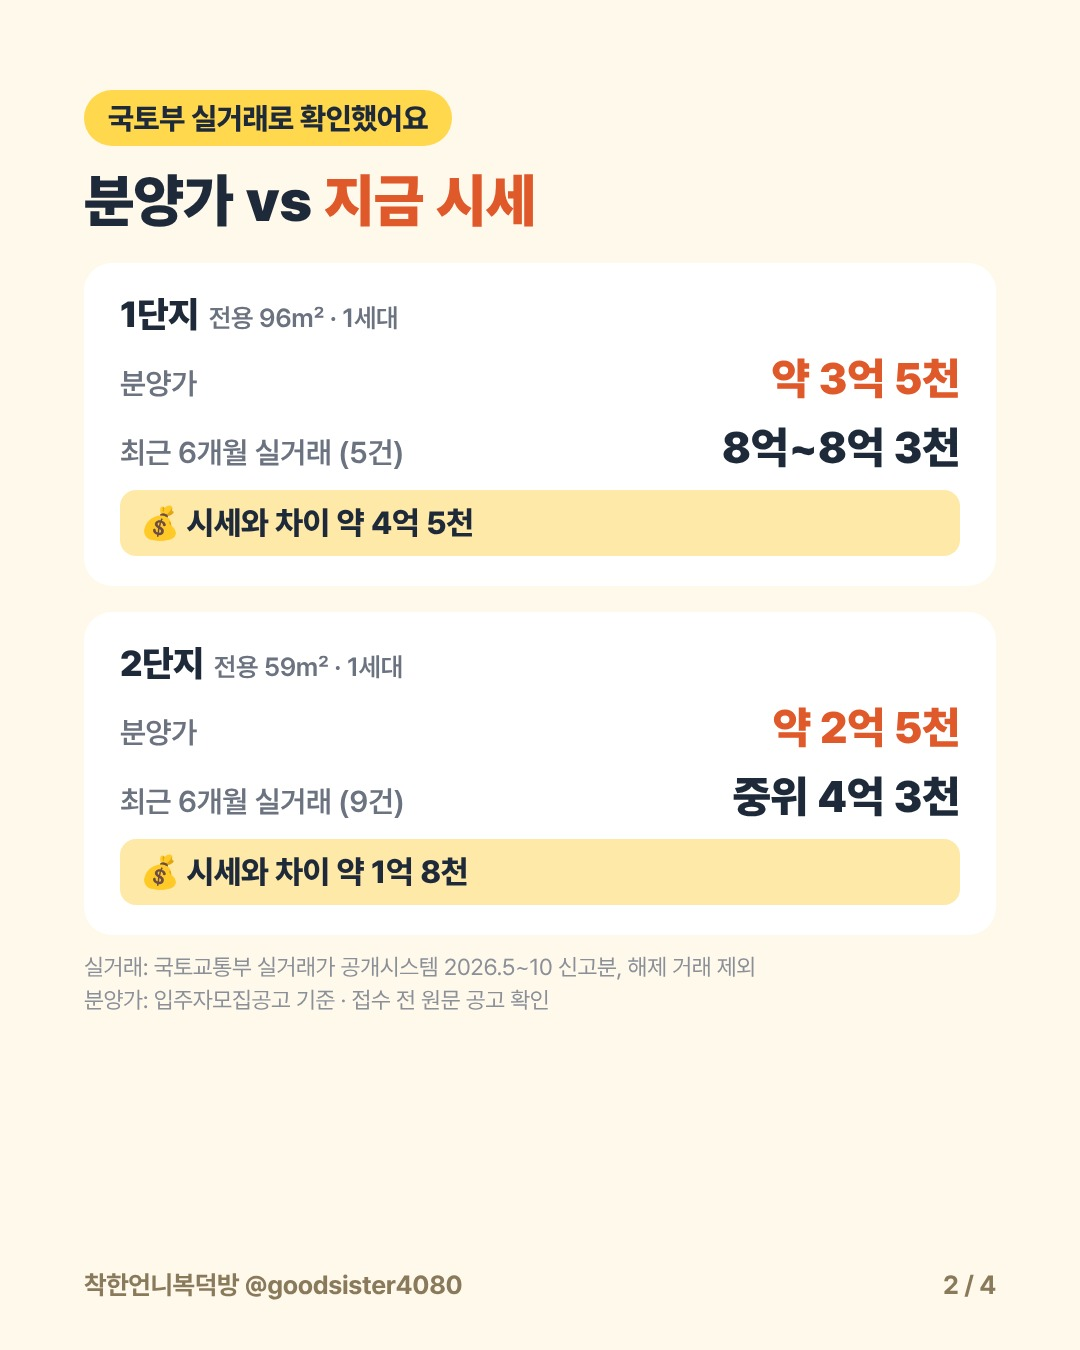
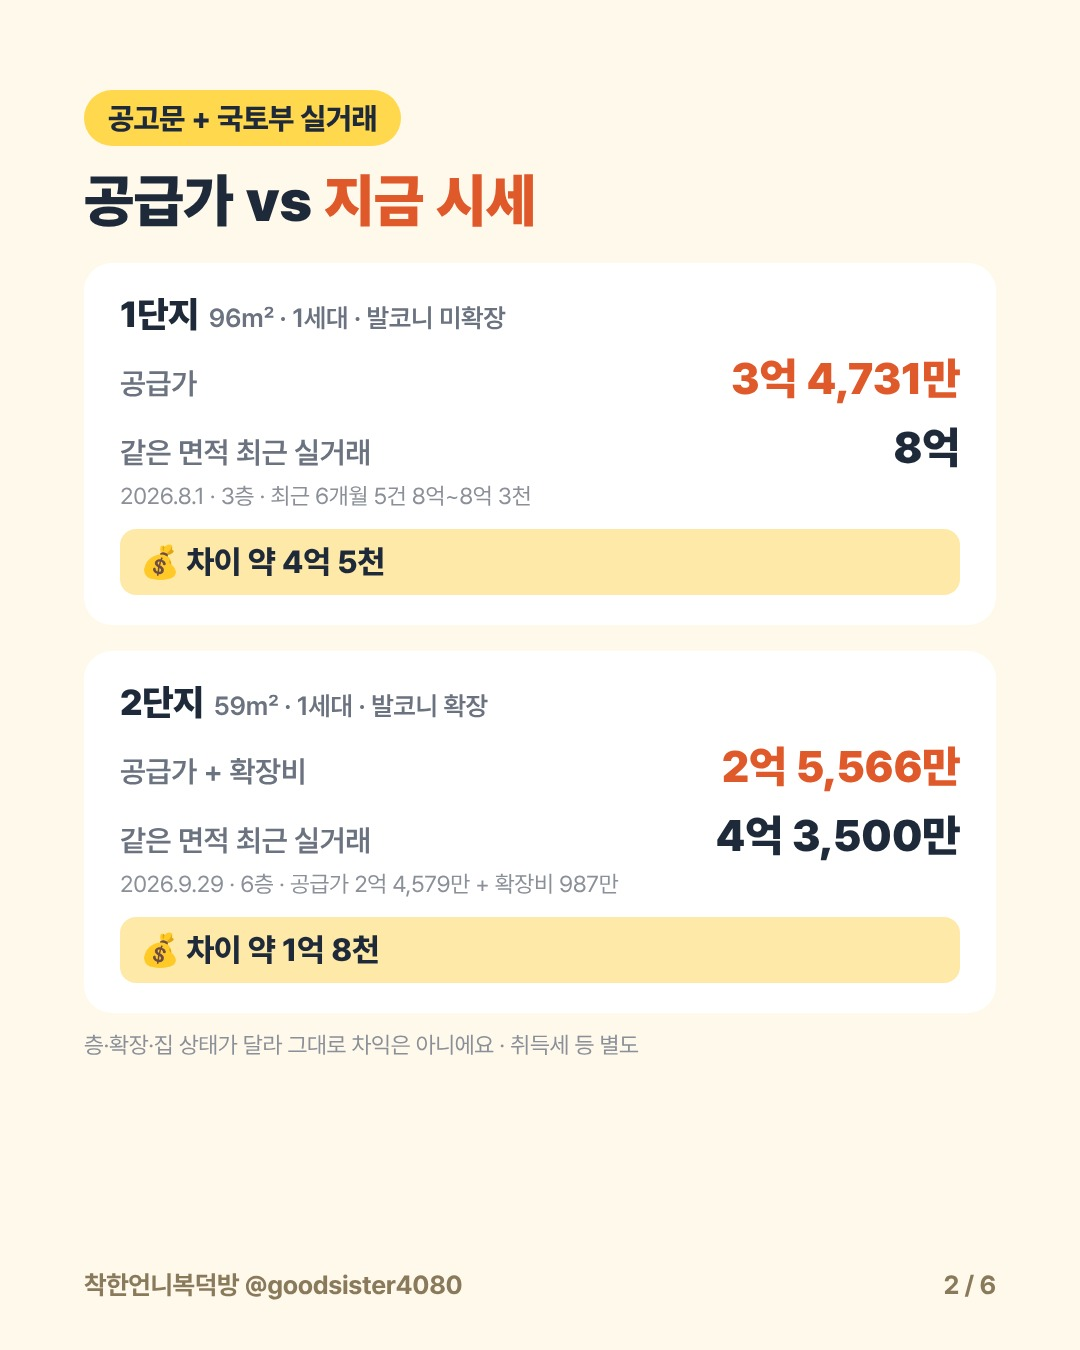
Rebuild Sejong card as 6-slide save/share post without DM reward
Claude-Session: https://claude.ai/code/session_01TVq9M4GpnT2XRseWGn9WC1

diff --git a/instagram/cards/kit.html b/instagram/cards/kit.html
@@ -10,45 +10,42 @@ pre{white-space:pre-wrap;word-break:keep-all;margin:0;padding:14px;font-family:i
 code{background:#FFD84D;padding:2px 8px;border-radius:6px}a.back{font-size:14px}
 </style></head><body><div class="w"><a class="back" href="../../">← 대시보드</a><h1>📤 카드뉴스 업로드 키트</h1>
 <p class="note">캡션·고정 댓글·DM 문구를 버튼 한 번으로 복사하세요.</p>
-<section><h2>🚨 11/3(화) · 세종 수루배마을 무순위</h2>
-<div class="th"><a href="2026-11-03-sejong/card-1103-1.png" download><img src="2026-11-03-sejong/card-1103-1.png"></a><a href="2026-11-03-sejong/card-1103-2.png" download><img src="2026-11-03-sejong/card-1103-2.png"></a><a href="2026-11-03-sejong/card-1103-3.png" download><img src="2026-11-03-sejong/card-1103-3.png"></a><a href="2026-11-03-sejong/card-1103-4.png" download><img src="2026-11-03-sejong/card-1103-4.png"></a></div><p class="note">이미지를 길게 누르거나(휴대폰) 클릭하면 저장돼요.</p>
-<div class="box"><div class="hd"><b>① 캡션</b><button onclick="cp(this)">복사</button></div><pre>세종 수루배마을,
+<section><h2>🚨 11/3(화) · 세종 수루배마을 무순위 (DM 없음)</h2><div class="th"><a href="2026-11-03-sejong/card-1103-1.png" download><img src="2026-11-03-sejong/card-1103-1.png"></a><a href="2026-11-03-sejong/card-1103-2.png" download><img src="2026-11-03-sejong/card-1103-2.png"></a><a href="2026-11-03-sejong/card-1103-3.png" download><img src="2026-11-03-sejong/card-1103-3.png"></a><a href="2026-11-03-sejong/card-1103-4.png" download><img src="2026-11-03-sejong/card-1103-4.png"></a><a href="2026-11-03-sejong/card-1103-5.png" download><img src="2026-11-03-sejong/card-1103-5.png"></a><a href="2026-11-03-sejong/card-1103-6.png" download><img src="2026-11-03-sejong/card-1103-6.png"></a></div><p class="note">저장·공유형이라 소셜비즈 설정이 없어요.</p><div class="box"><div class="hd"><b>① 캡션</b><button onclick="cp(this)">복사</button></div><pre>세종 수루배마을,
 10년 전 분양가로 무순위 2세대 🚨
 
-1단지 96㎡ 분양가 약 3억 5천
-최근 실거래 8억~8억 3천
+✔ 1단지 96㎡ · 미확장
+공급가 3억 4,731만
+같은 면적 최근 실거래 8억
 
-2단지 59㎡ 분양가 약 2억 5천
-최근 실거래 중위 4억 3천
+✔ 2단지 59㎡ · 확장
+공급가 2억 4,579만 (+확장비 987만)
+같은 면적 최근 실거래 4억 3,500만
 
-✔ 세종시 거주 + 무주택 세대구성원
-✔ 청약통장 가입 여부 무관
-✔ 접수 11/9(월) · 발표 11/12(목)
+📅 11/9(월) 하루 접수
+09:00~17:30
+발표 11/12 · 계약 11/19
+잔금 12/30 (중도금 없음)
 
-최초 모집공고가 2016년 10월이라
-그때 분양가로 다시 나왔어요.
+✔ 세종시 거주 + 세대 전원 무주택
+✔ 청약통장 필요 없음
+✔ 가점 없이 무작위 추첨
 
-📩 댓글에 &#x27;세종&#x27; 남기시면
-자격·자금 체크표와 공고 링크를
-DM으로 보내드려요.
-(팔로워분들께만 보내드려요)
+⚠ 잔금 90%를 40일 안에 내야 하고
+대출 알선이 없어요.
+청약 전에 은행 한도부터 확인하세요.
 
+📌 저장해 두고 11/9 아침에 다시 보세요.
 세종 사는 무주택 지인에게
 꼭 공유해 주세요 📤
 
-출처 | 입주자모집공고,
-국토부 실거래가 (2026.5~10 신고분)
+📞 상담은 프로필 링크 → 카톡 채널
+
+출처 | 입주자모집공고 (2026.11.3),
+국토부 실거래가
 ※ 청약 권유가 아니에요.
 접수 전 원문 공고를 꼭 확인하세요.
 
-#세종청약 #무순위청약 #수루배마을 #세종아파트 #줍줍 #반곡동 #내집마련 #착한언니복덕방</pre></div><div class="box"><div class="hd"><b>② 고정 댓글</b><button onclick="cp(this)">복사</button></div><pre>👇 &#x27;세종&#x27; 댓글 남겨주세요! 순서대로 DM 드려요</pre></div><div class="box"><div class="hd"><b>③ 노션 자료 링크 · 「세종 수루배마을 무순위 2세대 · 자격·자금 체크표」 (2차 DM [자료 받기] 버튼에 넣기)</b><button onclick="cp(this)">복사</button></div><pre>https://www.notion.so/40df7921674681c99022f57e68001bae</pre></div><p class="note">링크가 로그인 없이 열리는지 시크릿 창으로 한 번 확인해 주세요. 노션에서 "웹에 게시"가 켜져 있어야 열려요.</p>
-<h3>소셜비즈 설정 · 키워드 <code>세종</code></h3>
-<div class="box"><div class="hd"><b>공개 대댓글</b><button onclick="cp(this)">복사</button></div><pre>DM 보내드렸어요! 📩 메시지함 확인해 주세요</pre></div><div class="box"><div class="hd"><b>1차 DM (+ [팔로우했어요] 버튼)</b><button onclick="cp(this)">복사</button></div><pre>안녕하세요, 착한언니예요 😊
-자료는 팔로워분들께만 보내드려요.
-팔로우하셨다면 아래 [팔로우했어요] 버튼을 눌러주세요!</pre></div><div class="box"><div class="hd"><b>2차 DM (+ [자료 받기] 버튼 → 노션 「세종 수루배마을 무순위 2세대 · 자격·자금 체크표」)</b><button onclick="cp(this)">복사</button></div><pre>세종 수루배마을 무순위 체크표예요 🚨
-자격·자금 체크와 실거래 내역을 정리했어요.
-접수 전 청약홈 원문 공고도 꼭 확인하세요!</pre></div>
-</section><section><h2>11/4(수) · 잔금 30일 캘린더</h2>
+#세종청약 #무순위청약 #수루배마을 #세종아파트 #줍줍 #반곡동 #10년전분양가 #내집마련 #착한언니복덕방</pre></div><div class="box"><div class="hd"><b>② 고정 댓글</b><button onclick="cp(this)">복사</button></div><pre>📌 11/9(월) 하루만 접수해요! 저장해 두고, 세종 사는 지인에게 공유해 주세요 🙏</pre></div></section><section><h2>11/4(수) · 잔금 30일 캘린더</h2>
 <div class="th"><a href="2026-11-04/card-1104-1.png" download><img src="2026-11-04/card-1104-1.png"></a><a href="2026-11-04/card-1104-2.png" download><img src="2026-11-04/card-1104-2.png"></a><a href="2026-11-04/card-1104-3.png" download><img src="2026-11-04/card-1104-3.png"></a><a href="2026-11-04/card-1104-4.png" download><img src="2026-11-04/card-1104-4.png"></a></div><p class="note">이미지를 길게 누르거나(휴대폰) 클릭하면 저장돼요.</p>
 <div class="box"><div class="hd"><b>① 캡션</b><button onclick="cp(this)">복사</button></div><pre>잔금 30일 전부터, 이 순서 틀리면 돈이 새요 💸
 

diff --git a/index.html b/index.html
@@ -103,10 +103,10 @@ footer{margin-top:48px;color:var(--tx3);font-size:12px}
   <h2>📌 이번 주 할 일 (11/2 ~ 11/8)</h2>
   <div class="sub">바로 올릴 수 있게 준비된 콘텐츠</div>
   <div class="cards">
-    <div class="card"><h3>🚨 11/3(화) 긴급 · <code>세종</code> · 오늘 밤 9시</h3>
-      <p><b>세종 수루배마을 10년 전 분양가 무순위 2세대</b> (4장)</p>
-      <div class="thumbs"><a href="instagram/cards/2026-11-03-sejong/card-1103-1.png"><img src="instagram/cards/2026-11-03-sejong/card-1103-1.png" alt="1"></a><a href="instagram/cards/2026-11-03-sejong/card-1103-2.png"><img src="instagram/cards/2026-11-03-sejong/card-1103-2.png" alt="2"></a><a href="instagram/cards/2026-11-03-sejong/card-1103-3.png"><img src="instagram/cards/2026-11-03-sejong/card-1103-3.png" alt="3"></a><a href="instagram/cards/2026-11-03-sejong/card-1103-4.png"><img src="instagram/cards/2026-11-03-sejong/card-1103-4.png" alt="4"></a></div>
-      <ul><li><a href="instagram/cards/kit.html"><b>업로드 키트 (복사 버튼)</b></a></li><li>보상: 노션 「세종 수루배마을 무순위 · 자격·자금 체크표」 → <b>웹에 게시</b></li></ul></div>
+    <div class="card"><h3>🚨 11/3(화) 긴급 · 저장·공유형 · 오늘 밤 9시</h3>
+      <p><b>세종 수루배마을 10년 전 분양가 무순위 2세대</b> (6장 · DM 없음)</p>
+      <div class="thumbs"><a href="instagram/cards/2026-11-03-sejong/card-1103-1.png"><img src="instagram/cards/2026-11-03-sejong/card-1103-1.png" alt="1"></a><a href="instagram/cards/2026-11-03-sejong/card-1103-2.png"><img src="instagram/cards/2026-11-03-sejong/card-1103-2.png" alt="2"></a><a href="instagram/cards/2026-11-03-sejong/card-1103-3.png"><img src="instagram/cards/2026-11-03-sejong/card-1103-3.png" alt="3"></a><a href="instagram/cards/2026-11-03-sejong/card-1103-4.png"><img src="instagram/cards/2026-11-03-sejong/card-1103-4.png" alt="4"></a><a href="instagram/cards/2026-11-03-sejong/card-1103-5.png"><img src="instagram/cards/2026-11-03-sejong/card-1103-5.png" alt="5"></a><a href="instagram/cards/2026-11-03-sejong/card-1103-6.png"><img src="instagram/cards/2026-11-03-sejong/card-1103-6.png" alt="6"></a></div>
+      <ul><li><a href="instagram/cards/kit.html"><b>업로드 키트 (캡션·고정 댓글 복사)</b></a></li></ul></div>
     <div class="card"><h3>11/4(수) 카드뉴스 · <code>잔금</code> · ⏰ 밤 9시 예약</h3>
       <p><b>잔금 30일 전부터, 이 순서 틀리면 돈이 새요</b> (4장)</p>
       <div class="thumbs"><a href="instagram/cards/2026-11-04/card-1104-1.png"><img src="instagram/cards/2026-11-04/card-1104-1.png" alt="1"></a><a href="instagram/cards/2026-11-04/card-1104-2.png"><img src="instagram/cards/2026-11-04/card-1104-2.png" alt="2"></a><a href="instagram/cards/2026-11-04/card-1104-3.png"><img src="instagram/cards/2026-11-04/card-1104-3.png" alt="3"></a><a href="instagram/cards/2026-11-04/card-1104-4.png"><img src="instagram/cards/2026-11-04/card-1104-4.png" alt="4"></a></div>

diff --git a/instagram/cards/2026-11-03-sejong/README.md b/instagram/cards/2026-11-03-sejong/README.md
@@ -1,42 +1,48 @@
-# 11/3(화) 긴급 카드뉴스: 세종 수루배마을 무순위
+# 11/3(화) 긴급 카드뉴스: 세종 수루배마을 무순위 (DM 없음)
 
-**업로드**: 11/3(화) 밤 9시 · 4장 · 댓글 키워드 `세종`
+**업로드**: 11/3(화) 밤 9시 · 6장 · 저장·공유형 (댓글 자료 배포 없음)
 
 ## 캡션
 ```
 세종 수루배마을,
 10년 전 분양가로 무순위 2세대 🚨
 
-1단지 96㎡ 분양가 약 3억 5천
-최근 실거래 8억~8억 3천
+✔ 1단지 96㎡ · 미확장
+공급가 3억 4,731만
+같은 면적 최근 실거래 8억
 
-2단지 59㎡ 분양가 약 2억 5천
-최근 실거래 중위 4억 3천
+✔ 2단지 59㎡ · 확장
+공급가 2억 4,579만 (+확장비 987만)
+같은 면적 최근 실거래 4억 3,500만
 
-✔ 세종시 거주 + 무주택 세대구성원
-✔ 청약통장 가입 여부 무관
-✔ 접수 11/9(월) · 발표 11/12(목)
+📅 11/9(월) 하루 접수
+09:00~17:30
+발표 11/12 · 계약 11/19
+잔금 12/30 (중도금 없음)
 
-최초 모집공고가 2016년 10월이라
-그때 분양가로 다시 나왔어요.
+✔ 세종시 거주 + 세대 전원 무주택
+✔ 청약통장 필요 없음
+✔ 가점 없이 무작위 추첨
 
-📩 댓글에 '세종' 남기시면
-자격·자금 체크표와 공고 링크를
-DM으로 보내드려요.
-(팔로워분들께만 보내드려요)
+⚠ 잔금 90%를 40일 안에 내야 하고
+대출 알선이 없어요.
+청약 전에 은행 한도부터 확인하세요.
 
+📌 저장해 두고 11/9 아침에 다시 보세요.
 세종 사는 무주택 지인에게
 꼭 공유해 주세요 📤
 
-출처 | 입주자모집공고,
-국토부 실거래가 (2026.5~10 신고분)
+📞 상담은 프로필 링크 → 카톡 채널
+
+출처 | 입주자모집공고 (2026.11.3),
+국토부 실거래가
 ※ 청약 권유가 아니에요.
 접수 전 원문 공고를 꼭 확인하세요.
 
-#세종청약 #무순위청약 #수루배마을 #세종아파트 #줍줍 #반곡동 #내집마련 #착한언니복덕방
+#세종청약 #무순위청약 #수루배마을 #세종아파트 #줍줍 #반곡동 #10년전분양가 #내집마련 #착한언니복덕방
 ```
 
 ## 고정 댓글
 ```
-👇 '세종' 댓글 남겨주세요! 순서대로 DM 드려요
+📌 11/9(월) 하루만 접수해요! 저장해 두고, 세종 사는 지인에게 공유해 주세요 🙏
 ```
